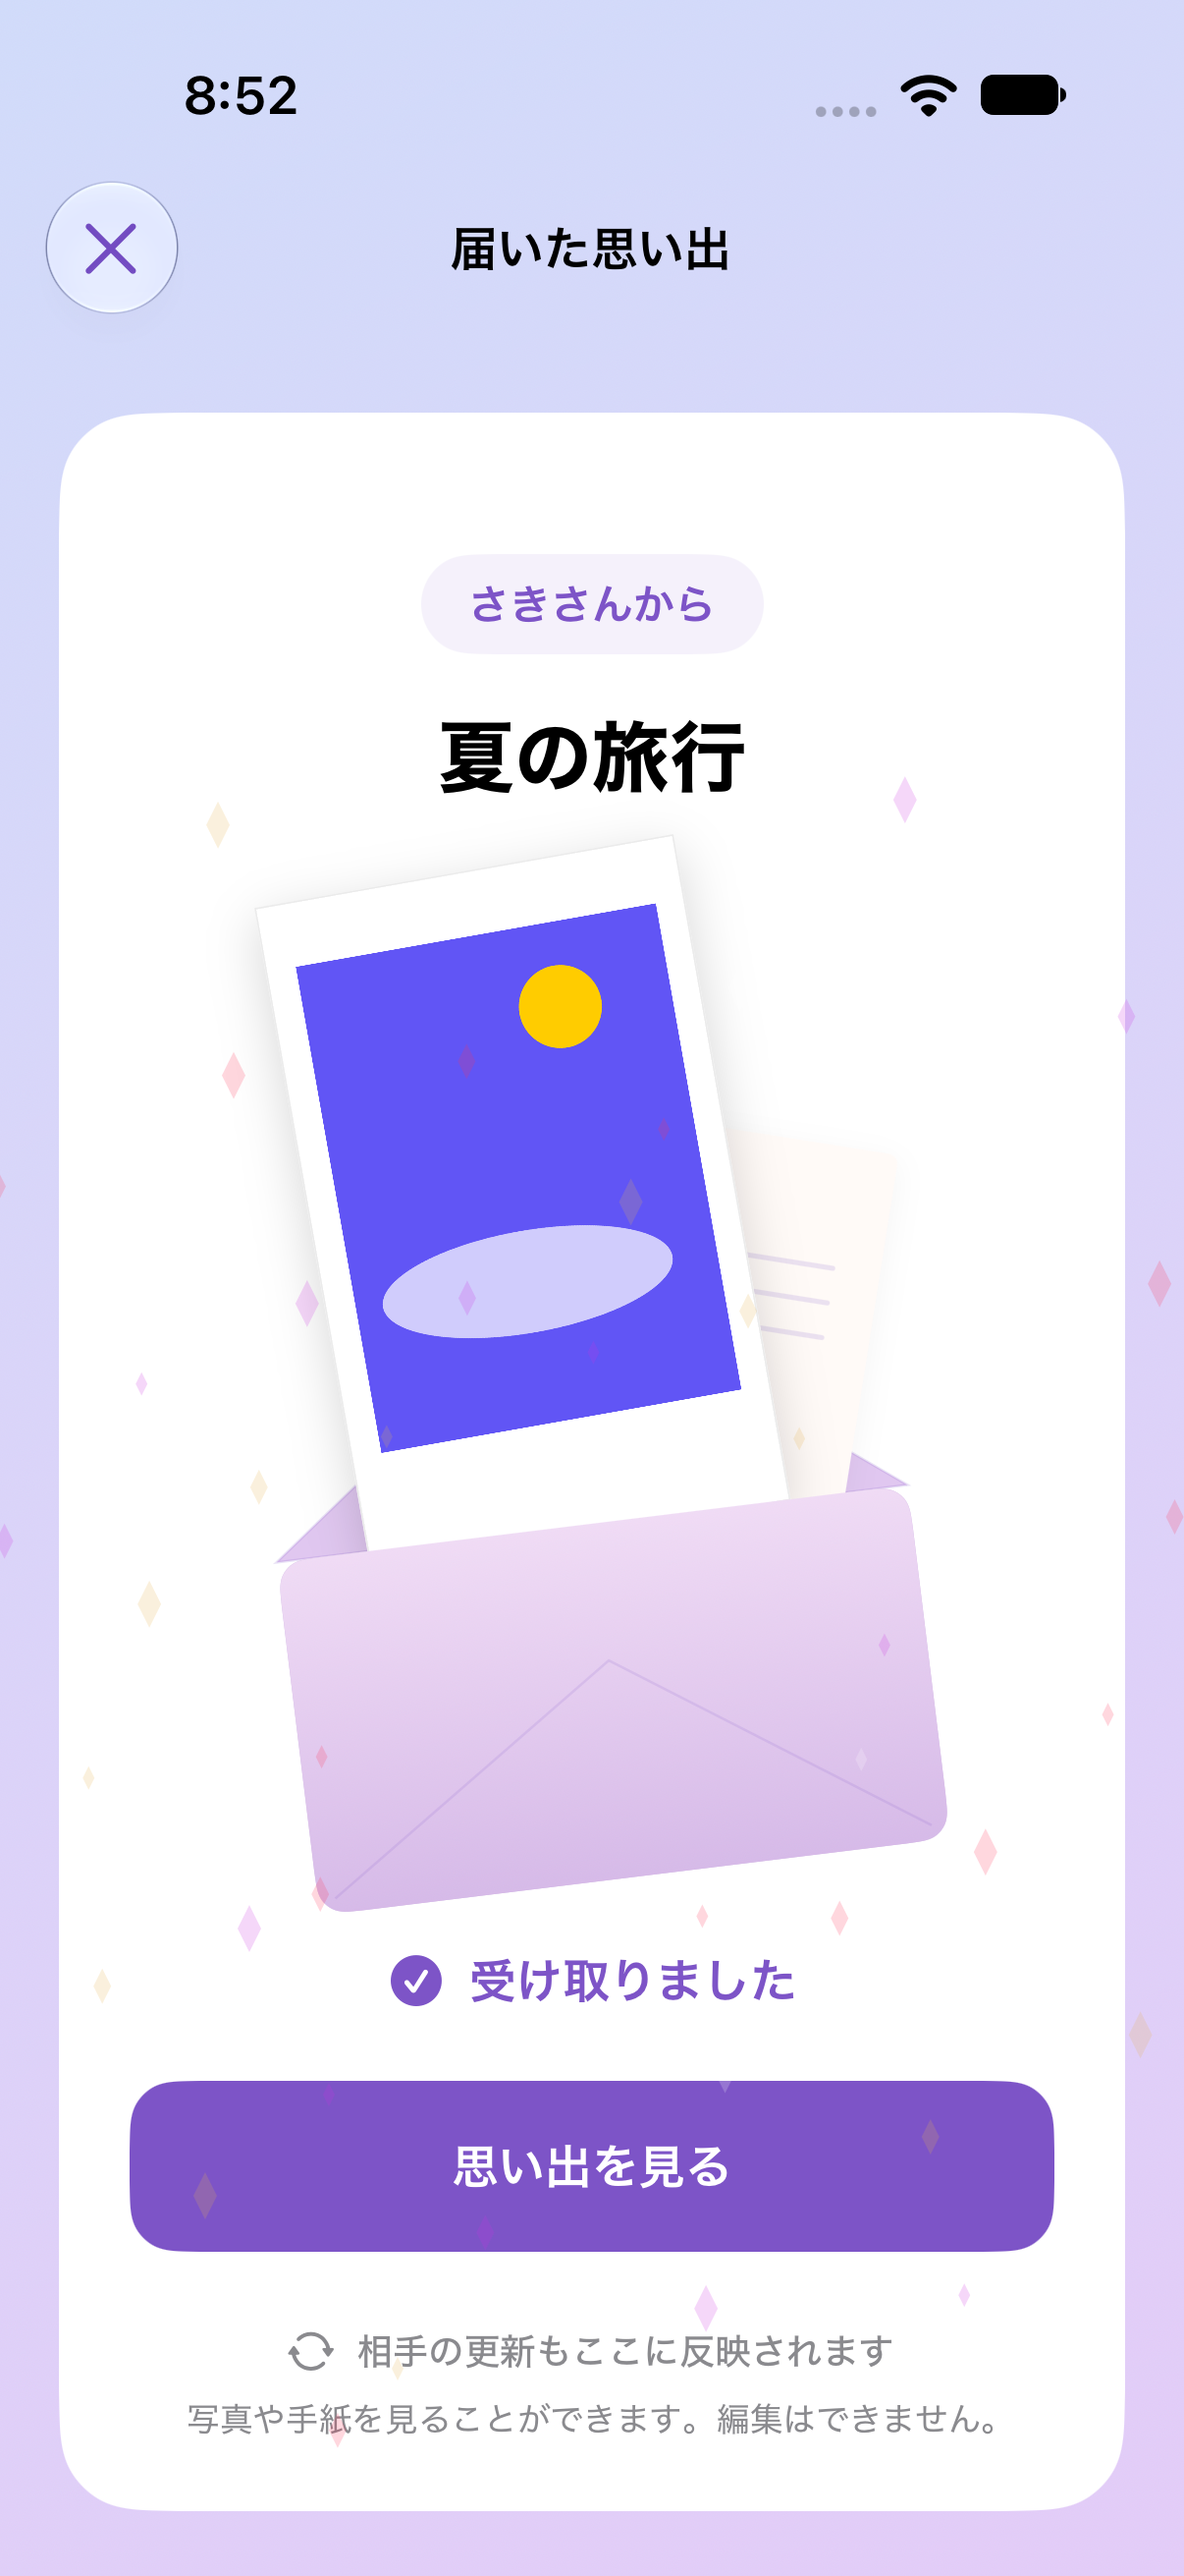
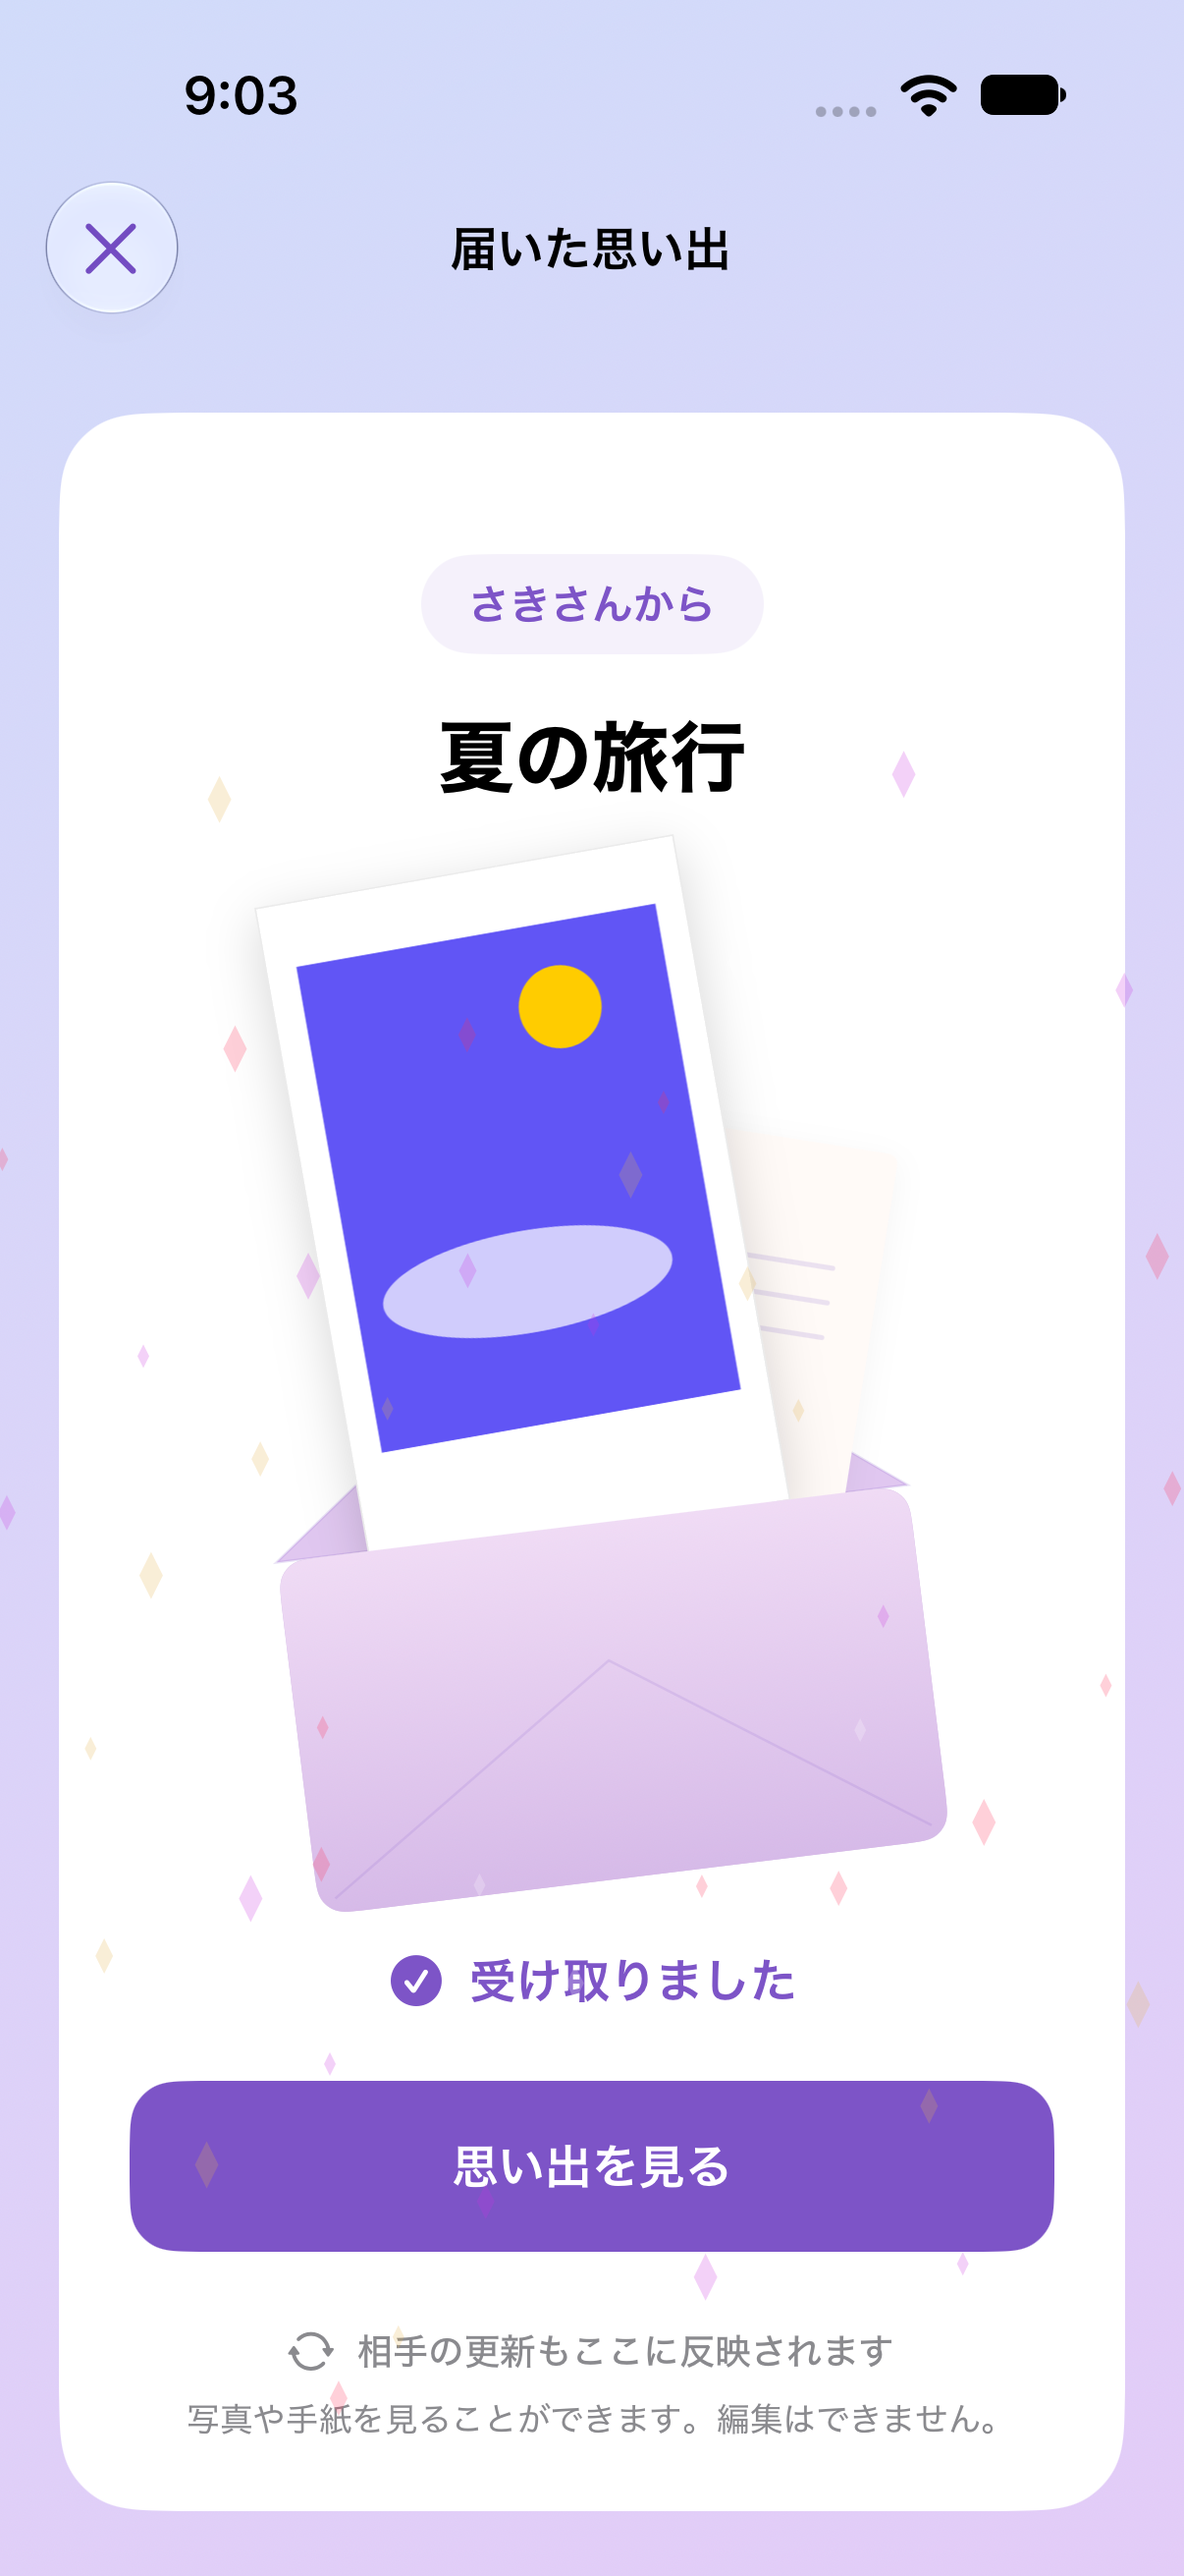
Ease cheki reveal and prepare cover images for display

diff --git a/sotsugyo/View/FolderInvitationView.swift b/sotsugyo/View/FolderInvitationView.swift
@@ -229,6 +229,8 @@ private struct GiftEnvelope: View {
     @State private var flapBehind: Bool
     @State private var contentsRaised: Bool
     @State private var sealReleased: Bool
+    @State private var preparedCover: UIImage?
+    @Environment(\.displayScale) private var displayScale
 
     init(opened: Bool, title: String, coverImage: UIImage? = nil) {
         self.opened = opened
@@ -239,6 +241,7 @@ private struct GiftEnvelope: View {
         _flapBehind = State(initialValue: opened)
         _contentsRaised = State(initialValue: opened)
         _sealReleased = State(initialValue: opened)
+        _preparedCover = State(initialValue: coverImage)
     }
 
     var body: some View {
@@ -250,8 +253,13 @@ private struct GiftEnvelope: View {
 
             contents
                 .mask {
-                    // Hide anything below the pocket; its top edge is the opening.
-                    Rectangle().frame(width: contentsRaised ? 360 : 250, height: 500).offset(y: -108)
+                    // Keep the opening fixed while the contents move through it.
+                    // Below the opening, the pocket also conceals both side edges.
+                    Path { path in
+                        path.addRect(CGRect(x: 0, y: 0, width: 360, height: 358))
+                        path.addRect(CGRect(x: 55, y: 358, width: 250, height: 142))
+                    }
+                    .frame(width: 360, height: 500).offset(y: -108)
                 }
                 .zIndex(2)
 
@@ -288,6 +296,15 @@ private struct GiftEnvelope: View {
         .rotationEffect(.degrees(-7))
         .offset(y: contentsRaised ? 58 : -30)
         .task(id: opened) { await animateOpening() }
+        .task(id: coverImage) {
+            guard let coverImage else { preparedCover = nil; return }
+            // Decode and downsample off the display path before the photo is exposed.
+            let image = await coverImage.byPreparingThumbnail(ofSize: CGSize(width: 170 * displayScale, height: 270 * displayScale))
+            guard !Task.isCancelled else { return }
+            withAnimation(reduceMotion ? nil : .easeInOut(duration: 0.2)) {
+                preparedCover = image ?? coverImage
+            }
+        }
         .accessibilityElement(children: .ignore)
         .accessibilityLabel(coverImage != nil ? "\(title)のチェキを添えた封筒" : opened ? "開いた招待の封筒" : "招待の封筒")
     }
@@ -304,9 +321,10 @@ private struct GiftEnvelope: View {
             .rotationEffect(.degrees(16)).offset(x: 52, y: contentsRaised ? -76 : 100)
             .shadow(color: .black.opacity(0.04), radius: 6, y: 3)
             Group {
-                if let coverImage {
+                if let preparedCover {
                     // Saved images already include the cheki border and handwritten decoration.
-                    Image(uiImage: coverImage).resizable().scaledToFit()
+                    Image(uiImage: preparedCover).resizable().scaledToFit()
+                        .transition(.opacity)
                 } else {
                     VStack(spacing: 12) {
                         ZStack {
@@ -346,7 +364,7 @@ private struct GiftEnvelope: View {
             flapBehind = true
             withAnimation(.easeOut(duration: 0.28)) { flapAngle = -180 }
             try await Task.sleep(for: .milliseconds(300))
-            withAnimation(.spring(response: 0.85, dampingFraction: 0.82)) { contentsRaised = true }
+            withAnimation(.easeInOut(duration: 1.1)) { contentsRaised = true }
         } catch { return }
     }
 }

diff --git a/sotsugyoUITests/sotsugyoUITests.swift b/sotsugyoUITests/sotsugyoUITests.swift
@@ -13,6 +13,9 @@ final class sotsugyoUITests: XCTestCase {
         XCTAssertFalse(app.otherElements["invite.cover"].exists)
         attachScreenshot("招待の封筒")
         app.buttons["invite.open"].tap()
+        // Keep accessibility snapshots off the animation path while recording.
+        // Leave the app untouched through the reveal, then verify the result.
+        Thread.sleep(forTimeInterval: 2.5)
         XCTAssertTrue(app.staticTexts["invite.received"].waitForExistence(timeout: 5))
         XCTAssertTrue(app.otherElements["invite.cover"].waitForExistence(timeout: 5))
         attachScreenshot("思い出の開封")

diff --git a/docs/verification/invite-links/README.md b/docs/verification/invite-links/README.md
@@ -6,7 +6,7 @@
 
 初期企画資料の「チェキ×音楽×プレゼント」に合わせ、水色〜紫の背景と白い台紙、太めの文字、チェキと便箋を入れた封筒で送受信画面を統一しています。送信画面には読み込み済みのフォルダ表紙を表示し、受信画面は受け取り成功後に開封とキラキラの演出を表示します。受信画面では参加完了後にフォルダ一覧と同じ順序の1枚目のチェキを読み込み、封筒のカードに表示します。写真は1枚だけ読み込み、写真なし・読込失敗時は音符の表示を残してフォルダを開けます。参加前の写真取得は行いません。
 
-2026-10-08: 封筒のチェキは保存画像に含まれる白枠・手書き装飾をそのまま表示します。外側に重ねていた白いカードと重複するタイトルを外し、縦長の170×270の表示領域に拡大しました。チェキの輪郭には薄い縁と影を付けています。2026-10-11には封筒から取り出す印象を戻すため、チェキは終始ポケットの背面で上へ移動するよう変更しました。開封後は白い下余白の大部分が見え、下端だけが封筒の口に残ります。前面は透過させず、中身を支えるポケットとして表示します。上辺につながる三角のふたが先に奥へ180度開き、その後にチェキと便箋が上がります。ふたが真横になる位置で背面に移すことで、中身を横切らないようにしています。閉封時は底と両脇から中身がはみ出さないよう隠し、ハートの封は開封時に消えます。Reduce Motionでは途中の回転・移動を省略します。送信画面・受信画面に共通で適用しています。
+2026-10-08: 封筒のチェキは保存画像に含まれる白枠・手書き装飾をそのまま表示します。外側に重ねていた白いカードと重複するタイトルを外し、縦長の170×270の表示領域に拡大しました。チェキの輪郭には薄い縁と影を付けています。2026-10-11には封筒から取り出す印象を戻すため、チェキは終始ポケットの背面で上へ移動するよう変更しました。開封後は白い下余白の大部分が見え、下端だけが封筒の口に残ります。前面は透過させず、中身を支えるポケットとして表示します。上辺につながる三角のふたが先に奥へ180度開き、その後にチェキと便箋が上がります。ふたが真横になる位置で背面に移すことで、中身を横切らないようにしています。閉封時は底と両脇から中身がはみ出さないよう隠し、ハートの封は開封時に消えます。Reduce Motionでは途中の回転・移動を省略します。チェキの取り出しは1.1秒のease-in-outでゆっくり加速・減速させ、口元のマスクは動かしません。表紙画像は表示サイズに合わせて非同期でデコード・縮小してから反映します。送信画面・受信画面に共通で適用しています。
 
 操作は「リンクで送る」「受け取って開く」「思い出を見る」、一覧は「届いた思い出」と表示します。更新の同期・閲覧専用・リンクの公開範囲の説明は残しています。受信画面は開封前後でボタン位置を維持し、共有内容は便箋とチェキの形で表示します。
 
@@ -34,6 +34,7 @@ Xcode 27.2 beta 2 / iPhone 18 Pro / iOS 27.0 の専用シミュレーター「Pi
 - 2026-10-08: チェキの形を明確にする調整後、署名付きビルドと送信・開封のUIテスト2件が成功。縦長の輪郭、下側の余白、封筒とハートの重なり、受け取り後の遷移と手紙の同期を確認。送受信画像3枚を更新。
 - 2026-10-11: 封筒から滑り出す重なり・位置・折り線・挿入部分のマスクを調整。最終の署名付きビルドと送信・開封のUIテスト2件が成功。開封前後の画面と録画で、閉封時の下方向のはみ出し解消、口元から現れるチェキ、送信・受信の表示を確認。スクリーンショット3枚を更新し、通常の確認用シミュレーターにも反映。実機での動きは未確認。
 - 2026-10-11: 封筒の上辺を軸に三角のふたが奥へ開いてから中身が出るよう修正。最終の署名付きビルドと送信・開封のUIテスト2件が成功。シミュレーターの開封前後の画像と、ふた→中身の順番を録画で確認。閉封時の両脇のはみ出しも修正し、画像3枚と確認用アプリを更新。実機での動作は未確認。
+- 2026-10-11: チェキの出始めを調整。取り出しを1.1秒のease-in-outへ変更し、口元のマスクを固定、表紙を表示サイズに非同期でデコード・縮小。署名付きビルドと送信・開封・写真なし／画像取得失敗のUIテスト3件が成功。録画への影響を避けるため、開封テストの画面状態取得を動作終了後へ移し、開封・同期テストも再実行して成功。画面照会を止めた再録画でもフレーム欠落が残るため、引っかかりの完全解消は未確認。実機での滑らかさも未確認。
 - `git diff --check` 成功。
 - 2026-10-07: Googleログインで「ようこそ」に戻る原因を、署名なしの検証ビルドによるKeychainエラー（`SecItemCopyMatching -34018`）と確認。通常の署名付きビルドへ入れ替え、ユーザー操作によるGoogleログイン成功、実際の写真一覧・送信画面のチェキ表示、最終ビルドへの更新・再起動後のログイン維持を確認。FirebaseUIの結果通知・画面終了・失敗理由の表示を実装し、ログインシートが閉じた後に招待を再開するよう変更。関連単体14件が成功（Keychainの保存・読み出し、成功・失敗・キャンセル・未完了、Googleエラーの詳細表示、既存の招待復帰など）。実際の個人写真を含むスクリーンショットはリポジトリに掲載していません。
 
